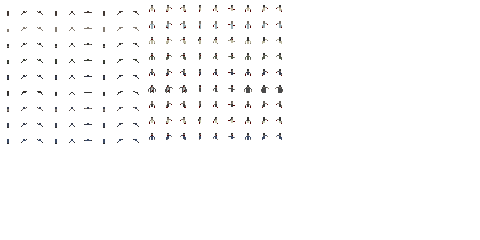
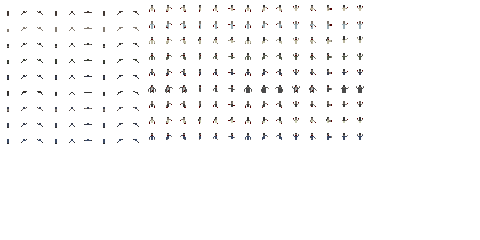
add attack sprites for commons

diff --git a/h4d2/Entities/Mobs/Zombies/Commons/Common.cs b/h4d2/Entities/Mobs/Zombies/Commons/Common.cs
@@ -7,6 +7,9 @@ using Cfg = CommonConfig;
 public class Common : Zombie
 {
     private readonly int _common;
+    private const double _attackRange = 10.0;
+
+    private double _aimDirectionRadians;
     
     public Common(Level level, int xPosition, int yPosition)
         : base(
@@ -24,6 +27,7 @@ public class Common : Zombie
         _walkFrame = 0;
         _timeSinceLastFrameUpdate = 0.0;
         _target = null;
+        _aimDirectionRadians = 0;
     }
 
     public override void Update(double elapsedTime)
@@ -35,8 +39,25 @@ public class Common : Zombie
 
     private void _UpdateTarget()
     {
-        if (_target != null) return;
+        if (_target != null)
+        {
+            var (targetXPosition, targetYPosition, targetZPosition) 
+                = _target.BoundingBox.CenterMass(_target.XPosition, _target.YPosition, _target.ZPosition);
+            var (zombieXPosition, zombieYPosition, zombieZPosition)
+                = BoundingBox.CenterMass(XPosition, YPosition, ZPosition);
+            double distance = MathHelpers.Distance(targetXPosition, targetYPosition, targetZPosition, zombieXPosition, zombieYPosition, zombieZPosition);
+ 
+            _isAttacking = distance <= _attackRange;
+
+            _aimDirectionRadians = Math.Atan2(targetYPosition - zombieYPosition, targetXPosition - zombieXPosition);
+            _aimDirectionRadians = MathHelpers.NormalizeRadians(_aimDirectionRadians);
+            
+            return;
+        }
+        
+        _isAttacking = false;
         _target = _level.GetNearestLivingSurvivor(XPosition, YPosition);
+        
     }
     
     private void _UpdatePosition(double elapsedTime)
@@ -62,7 +83,86 @@ public class Common : Zombie
     private void _UpdateSprite(double elapsedTime)
     {
         _timeSinceLastFrameUpdate += elapsedTime;
+        if (_isAttacking)
+            _UpdateAttackingSprite();
+        else
+            _UpdateRunningSprite();
+    }
 
+    private void _UpdateAttackingSprite()
+    {
+        int direction = 0;
+        double degrees = MathHelpers.RadiansToDegrees(_aimDirectionRadians);
+        switch (degrees)
+        {
+            case >= 337.5:
+            case < 22.5:
+                direction = 2;
+                _xFlip = false;
+                break;
+            case < 67.5:
+                direction = 3;
+                _xFlip = false;
+                break;
+            case < 112.5:
+                direction = 4;
+                _xFlip = false;
+                break;
+            case < 157.5:
+                direction = 3;
+                _xFlip = true;
+                break;
+            case < 202.5:
+                direction = 2;
+                _xFlip = true;
+                break;
+            case < 247.5:
+                direction = 1;
+                _xFlip = true;
+                break;
+            case < 292.5:
+                direction = 0;
+                _xFlip = false;
+                break;
+            default:
+                direction = 1;
+                _xFlip = false;
+                break;
+        }
+        
+        while (_timeSinceLastFrameUpdate >= _frameDuration)
+        {
+            _walkStep = (_walkStep + 1) % 4;
+            if (_xVelocity == 0 && _yVelocity == 0) _walkStep = 0;
+            int nextLowerFrame = 0;
+            if (direction == 2)
+            {
+                nextLowerFrame = _walkStep switch
+                {
+                    0 => 3,
+                    1 or 3 => 4,
+                    2 => 5,
+                    _ => nextLowerFrame
+                };
+            }
+            else
+            {
+                nextLowerFrame = _walkStep switch
+                {
+                    0 or 2 => 0,
+                    1 => 1,
+                    3 => 2,
+                    _ => nextLowerFrame
+                };
+            }
+            _lowerFrame = nextLowerFrame;
+            _upperFrame = _attackingBitmapOffset + direction;
+            _timeSinceLastFrameUpdate -= _frameDuration;
+        }
+    }
+
+    private void _UpdateRunningSprite()
+    {
         int direction = 0;
         int degrees = MathHelpers.RadiansToDegrees(_directionRadians);
         switch (degrees)
@@ -117,7 +217,7 @@ public class Common : Zombie
             _timeSinceLastFrameUpdate -= _frameDuration;
         }
     }
-
+    
     protected override void Render(Bitmap screen, int xCorrected, int yCorrected)
     {
         Bitmap lowerBitmap = Art.Commons[_common][_lowerFrame];

diff --git a/h4d2/Entities/Mobs/Survivors/Survivor.cs b/h4d2/Entities/Mobs/Survivors/Survivor.cs
@@ -11,7 +11,7 @@ public class Survivor : Mob
     private readonly int _character;
     protected Weapon? _weapon;
     private Zombie? _target;
-    private bool _shooting;
+    private bool _isShooting;
     public double AimDirectionRadians { get; private set; }
     
     protected Survivor(Level level, int character, int xPosition, int yPosition) 
@@ -19,7 +19,7 @@ public class Survivor : Mob
     {
         _character = character;
         _target = null;
-        _shooting = false;
+        _isShooting = false;
         AimDirectionRadians = 0;
     }
 
@@ -102,12 +102,12 @@ public class Survivor : Mob
         if (_weapon.CanShoot() && _target != null)
         {
             _weapon.Shoot();
-            _shooting = true;
+            _isShooting = true;
         }
         else
         {
             if(_weapon.AmmoLoaded == 0 || _target == null)
-                _shooting = false;
+                _isShooting = false;
         }
     }
     
@@ -140,7 +140,7 @@ public class Survivor : Mob
     private void _UpdateSprite(double elapsedTime)
     {
         _timeSinceLastFrameUpdate += elapsedTime;
-        if (_shooting)
+        if (_isShooting)
             _UpdateShootingSprite();
         else
             _UpdateRunningSprite();

diff --git a/h4d2/Infrastructure/Art.cs b/h4d2/Infrastructure/Art.cs
@@ -38,7 +38,7 @@ public static class Art
         return result;
     }
     private static Bitmap[][] _LoadSurvivors() => _LoadBitmaps("survivor.png", SpriteSize, 8, 23);
-    private static Bitmap[][] _LoadCommons() => _LoadBitmaps("common.png", SpriteSize, 9, 18);
+    private static Bitmap[][] _LoadCommons() => _LoadBitmaps("common.png", SpriteSize, 9, 23);
     private static Bitmap[][] _LoadUncommons() => _LoadBitmaps("uncommon.png", SpriteSize, 5, 18);
     private static Bitmap[][] _LoadSpecials() => _LoadBitmaps("special.png", SpriteSize, 8, 9);
     private static Bitmap[][] _LoadParticles() => _LoadBitmaps("particle.png", ParticleSize, 1, 4);

diff --git a/h4d2/Entities/Mobs/Zombies/Zombie.cs b/h4d2/Entities/Mobs/Zombies/Zombie.cs
@@ -8,12 +8,14 @@ public abstract class Zombie : Mob
 {
     protected Entity? _target;
     protected readonly int _color;
+    protected bool _isAttacking;
     
     protected Zombie(Level level, BoundingBox boundingBox, int health, double speed, int xPosition, int yPosition, int color)
         : base(level, boundingBox, health, speed, xPosition, yPosition)
     {
         _target = null;
         _color = color;
+        _isAttacking = false;
     }
 
     public void HitBy(Projectile projectile)
